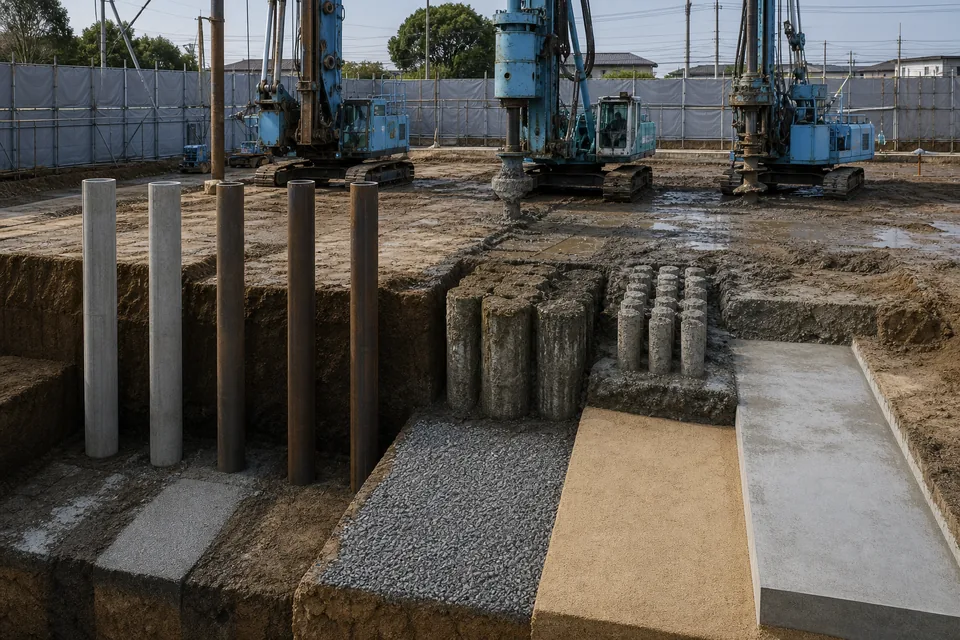
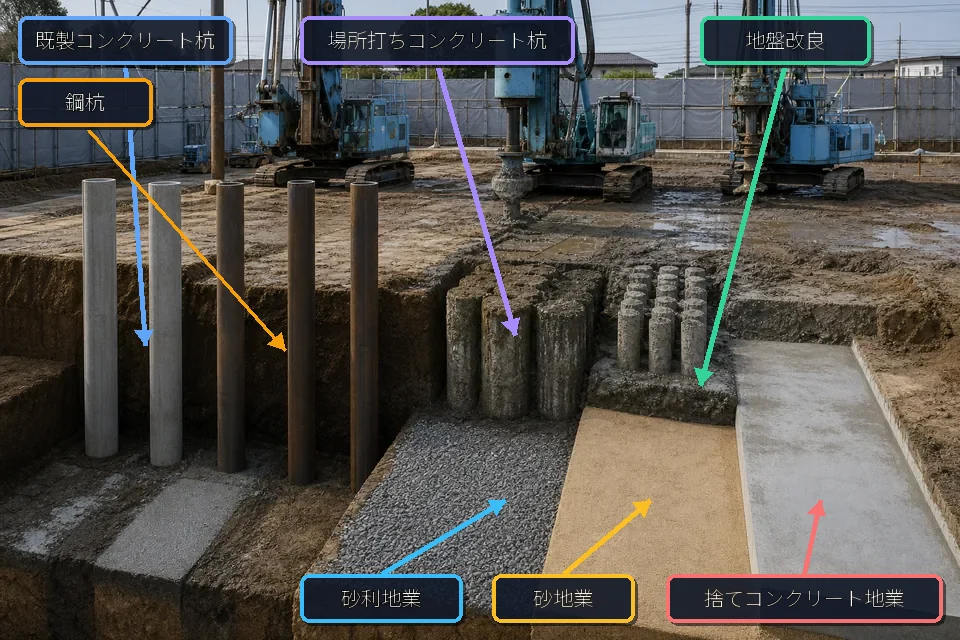
Correct temporary works and groundwork visuals

diff --git a/src/commentary/ch02.ts b/src/commentary/ch02.ts
@@ -47,6 +47,24 @@ const SVG_KIJUN_FLOW = `
   </g>
 </svg>`;
 
+const SVG_BENCHMARK = `
+<svg viewBox="0 0 660 260" role="img" aria-label="2.2.2 ベンチマーク。工事中の高さの基準となる木杭又はコンクリート杭を移動のおそれのない場所に堅固に設け、赤白の保護柵で囲って重機や作業員の接触から養生し、位置、高さ及び設置方法について監督職員の検査を受ける">
+  <g stroke="currentColor" stroke-width="3" fill="none">
+    <line x1="80" y1="220" x2="580" y2="220"/>
+    <line x1="270" y1="90" x2="270" y2="220" stroke-width="12"/>
+    <line x1="190" y1="70" x2="190" y2="220" stroke-width="8"/>
+    <line x1="370" y1="70" x2="370" y2="220" stroke-width="8"/>
+    <line x1="170" y1="105" x2="390" y2="105" stroke-width="12"/>
+    <line x1="170" y1="155" x2="390" y2="155" stroke-width="8"/>
+  </g>
+  <g fill="currentColor" font-size="13">
+    <text x="245" y="55" font-weight="bold">ベンチマーク（高さの基準点）</text>
+    <text x="410" y="110">赤白の保護柵で養生</text>
+    <text x="410" y="158">接触・移動を防止</text>
+    <text x="200" y="244">動かない場所に堅固に設置</text>
+  </g>
+</svg>`;
+
 const SVG_YARIKATA = `
 <svg viewBox="0 0 660 280" role="img" aria-label="遣方の構成。建物の隅などの要所に地杭を打ち、上端をかんな削りした水貫を水平に固定する。水貫の間に水糸を張って建物の位置と水平の基準を表示する。基準は工事に支障のない場所に逃げ心として控えておく">
   <g stroke="currentColor" stroke-width="6" stroke-linecap="round">
@@ -188,6 +206,12 @@ const ch02: Record<string, Commentary> = {
         term: "ベンチマーク（BM）",
         meaning:
           "工事中の高さの基準点。敷地付近の動かない点に設け、建物の高さはすべてここから追う。",
+      },
+    ],
+    diagrams: [
+      {
+        svg: SVG_BENCHMARK,
+        caption: "ベンチマークの設置と養生（2.2.2）",
       },
     ],
   },

diff --git a/src/commentary/ch03.ts b/src/commentary/ch03.ts
@@ -32,6 +32,28 @@ const SVG_NEGIRI = `
   </g>
 </svg>`;
 
+const SVG_KAMABA_DRAINAGE = `
+<svg viewBox="0 0 660 260" role="img" aria-label="3.2.2 釜場排水。根切り底に排水溝で勾配をつけ、最も低い一角に設けた小さな集水桝の釜場へ雨水や湧き水を集め、水中ポンプと排水ホースで場外の沈砂槽へ排水する最も簡便な排水工法">
+  <g fill="currentColor" opacity="0.18">
+    <path d="M40 80 H620 V225 H40 Z"/>
+  </g>
+  <g stroke="currentColor" stroke-width="2.5" fill="none">
+    <line x1="40" y1="80" x2="620" y2="80"/>
+    <path d="M80 190 L500 215"/>
+    <rect x="500" y="175" width="75" height="55"/>
+    <path d="M535 195 C535 120 600 150 610 90"/>
+  </g>
+  <g fill="currentColor">
+    <polygon points="475,205 455,196 456,216"/>
+  </g>
+  <g fill="currentColor" font-size="13">
+    <text x="80" y="55" font-weight="bold">排水溝の勾配で水を集める</text>
+    <text x="470" y="250">釜場（集水桝）</text>
+    <text x="520" y="150">水中ポンプ</text>
+    <text x="550" y="105">排水ホース</text>
+  </g>
+</svg>`;
+
 const SVG_UMEMODOSHI = `
 <svg viewBox="0 0 660 250" role="img" aria-label="埋戻しと盛土。300ミリ程度ごとに締め固め、土質に応じて余盛りを行う。材料はA種の山砂の類からD種の再生コンクリート砂まで種別がある">
   <g fill="currentColor" opacity="0.2"><rect x="60" y="180" width="320" height="40"/></g>
@@ -152,6 +174,12 @@ const ch03: Record<string, Commentary> = {
         term: "釜場（かまば）",
         meaning:
           "根切り底の一角に掘る水たまりのくぼみ。水を集めてポンプで排水する。釜場排水は最も簡便な排水工法。",
+      },
+    ],
+    diagrams: [
+      {
+        svg: SVG_KAMABA_DRAINAGE,
+        caption: "最も簡便な釜場排水（3.2.2）",
       },
     ],
   },

diff --git a/src/utils/diagramPhoto.ts b/src/utils/diagramPhoto.ts
@@ -1,5 +1,5 @@
 const SVG_ARIA_LABEL_PATTERN = /\baria-label="([^"]+)"/;
-const DIAGRAM_PHOTO_CACHE_REVISION = "20260724-1";
+const DIAGRAM_PHOTO_CACHE_REVISION = "20260725-1";
 
 const hashLabel = (value: string): string => {
   let hash = 0x811c9dc5;

diff --git a/scripts/annotate_jigyo_map.py b/scripts/annotate_jigyo_map.py
@@ -1,0 +1,92 @@
+from __future__ import annotations
+
+import math
+from pathlib import Path
+
+from PIL import Image, ImageDraw, ImageFont
+
+
+ROOT = Path(__file__).resolve().parents[1]
+IMAGE_PATH = ROOT / "public" / "diagrams" / "photo-79bc3a51.webp"
+FONT_PATH = Path(r"C:\Windows\Fonts\NotoSansJP-VF.ttf")
+
+
+def arrow(
+    draw: ImageDraw.ImageDraw,
+    start: tuple[int, int],
+    end: tuple[int, int],
+    color: str,
+) -> None:
+    draw.line([start, end], fill=color, width=5)
+    angle = math.atan2(end[1] - start[1], end[0] - start[0])
+    length = 18
+    spread = 0.55
+    p1 = (
+        end[0] - length * math.cos(angle - spread),
+        end[1] - length * math.sin(angle - spread),
+    )
+    p2 = (
+        end[0] - length * math.cos(angle + spread),
+        end[1] - length * math.sin(angle + spread),
+    )
+    draw.polygon([end, p1, p2], fill=color)
+
+
+def label(
+    draw: ImageDraw.ImageDraw,
+    box: tuple[int, int, int, int],
+    text: str,
+    target: tuple[int, int],
+    color: str,
+    font: ImageFont.FreeTypeFont,
+) -> None:
+    x1, y1, x2, y2 = box
+    start_y = y2 if target[1] > y2 else y1
+    start = ((x1 + x2) // 2, start_y)
+    arrow(draw, start, target, color)
+
+    shadow = (x1 + 3, y1 + 3, x2 + 3, y2 + 3)
+    draw.rounded_rectangle(shadow, radius=9, fill=(0, 0, 0, 135))
+    draw.rounded_rectangle(
+        box,
+        radius=9,
+        fill=(17, 24, 39, 232),
+        outline=color,
+        width=4,
+    )
+    text_box = draw.textbbox((0, 0), text, font=font)
+    text_w = text_box[2] - text_box[0]
+    text_h = text_box[3] - text_box[1]
+    draw.text(
+        ((x1 + x2 - text_w) / 2, (y1 + y2 - text_h) / 2 - 2),
+        text,
+        font=font,
+        fill="white",
+        stroke_width=1,
+        stroke_fill=(0, 0, 0, 200),
+    )
+
+
+def main() -> None:
+    image = Image.open(IMAGE_PATH).convert("RGBA").resize((960, 640))
+    overlay = Image.new("RGBA", image.size, (0, 0, 0, 0))
+    draw = ImageDraw.Draw(overlay)
+    font = ImageFont.truetype(str(FONT_PATH), 20)
+
+    # Pile and ground-improvement work.
+    label(draw, (18, 16, 232, 64), "既製コンクリート杭", (145, 345), "#60A5FA", font)
+    label(draw, (18, 78, 152, 126), "鋼杭", (285, 350), "#F59E0B", font)
+    label(draw, (300, 16, 574, 64), "場所打ちコンクリート杭", (515, 335), "#A78BFA", font)
+    label(draw, (700, 16, 870, 64), "地盤改良", (700, 385), "#34D399", font)
+
+    # Foundation-bed work shown in the foreground.
+    label(draw, (300, 574, 462, 622), "砂利地業", (505, 500), "#38BDF8", font)
+    label(draw, (492, 574, 634, 622), "砂地業", (650, 500), "#FBBF24", font)
+    label(draw, (666, 574, 942, 622), "捨てコンクリート地業", (820, 500), "#F87171", font)
+
+    result = Image.alpha_composite(image, overlay).convert("RGB")
+    result.save(IMAGE_PATH, "WEBP", quality=86, method=6)
+
+
+if __name__ == "__main__":
+    main()
